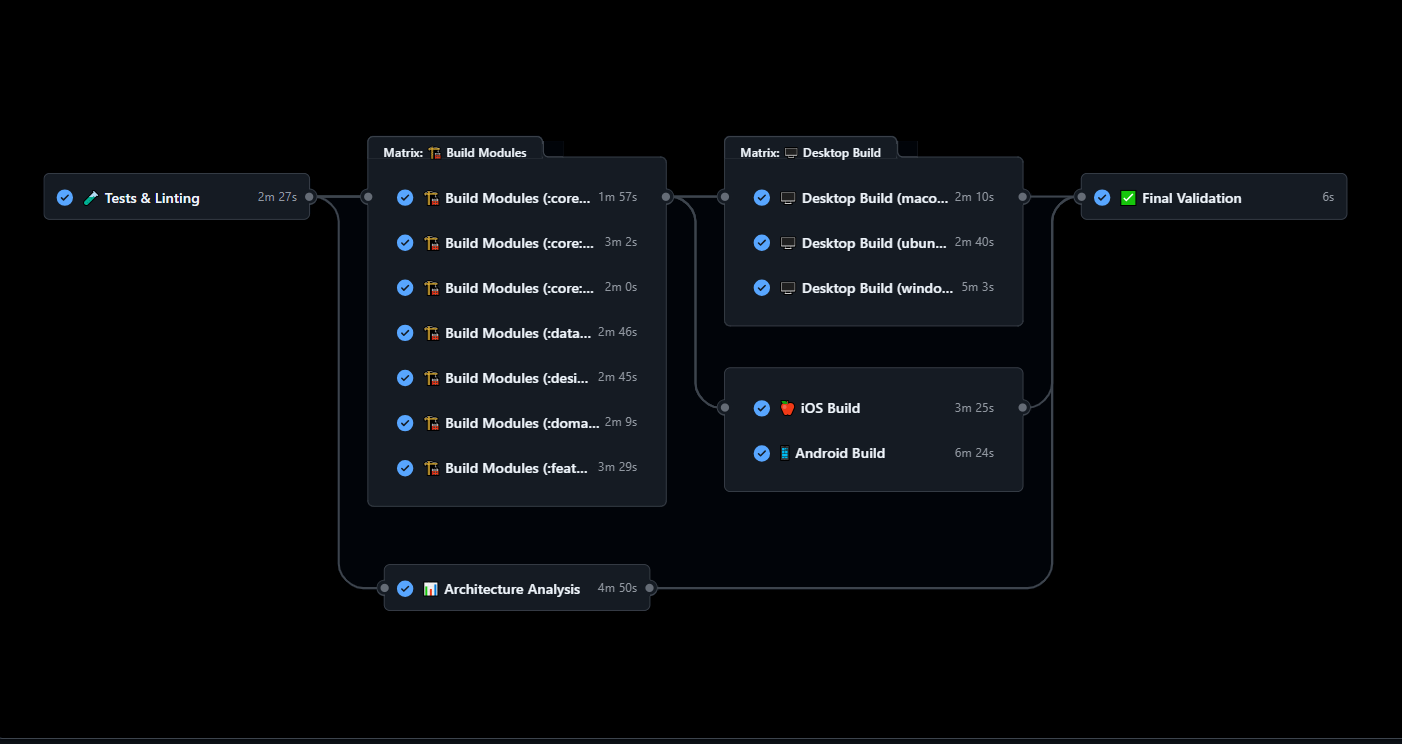
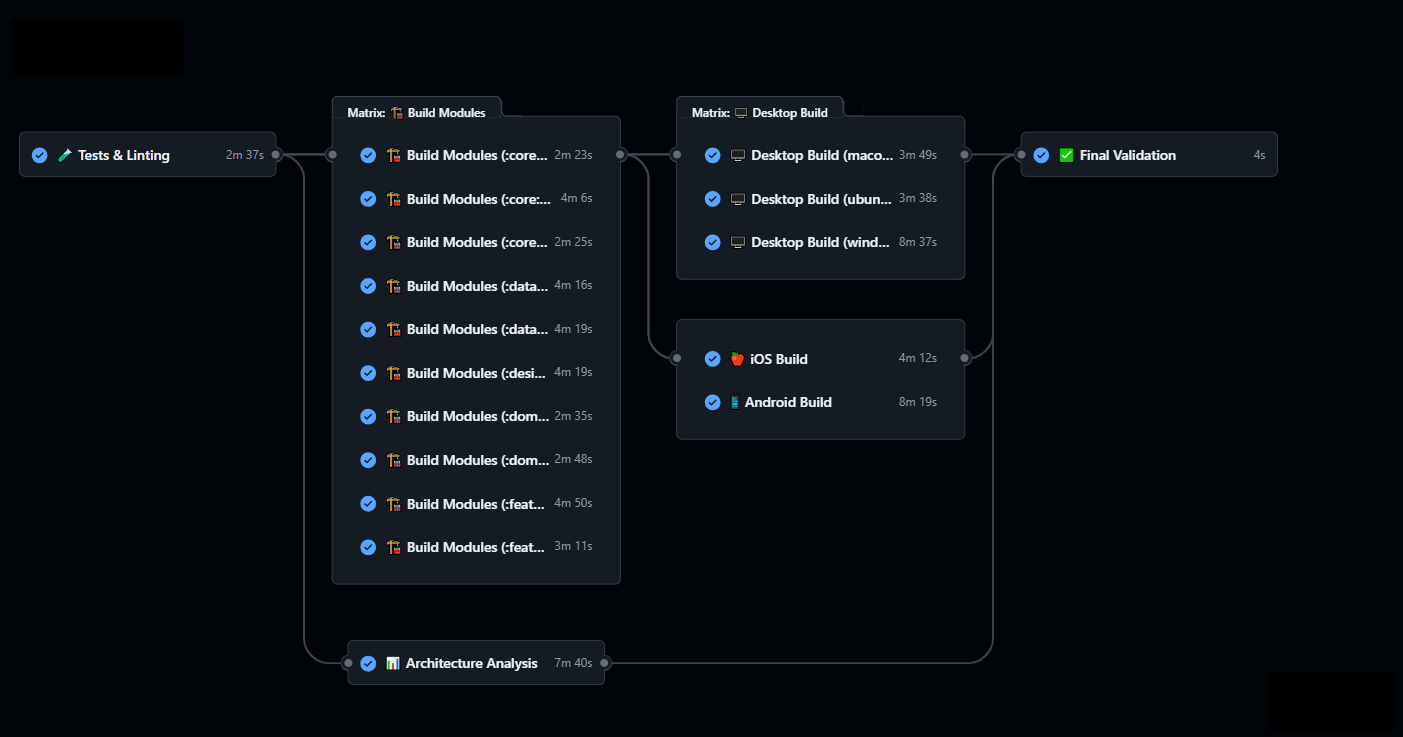
Feature: Добавлена функциональность "Калькулятор развития" и обновлена документация
Этот коммит вводит новую функцию "Калькулятор развития" и обновляет связанную документацию для отражения этих изменений.

Ключевые изменения:

- **README.md**:
    - Добавлена новая функция "Калькулятор развития" в список функциональности.
    - Обновлено описание архитектуры для включения новых доменных (`domain:development`) и функциональных (`feature:development`) модулей.

- **docs/ARCHITECTURE.md**:
    - Обновлена структура проекта, добавлены секции для `domain/development` и `data/development`, описывающие их внутреннюю структуру (repository, service, usecase).
    - Добавлена секция для `feature/development`, описывающая его структуру (screen, component, viewmodel, state).

- **docs/CI_CD.md**:
    - В список модулей, собираемых на этапе "Сборка модулей", добавлены `:domain:development`, `:data:development` и `:feature:development`.

- **screenshots/Pipline_structure.png**:
    - Обновлено изображение структуры пайплайна, предположительно для включения новых модулей или отражения изменений в процессе сборки.

Changed region(s): [[0.0, 0.1248, 0.9815, 0.9362], [0.6748, 0.8738, 0.7054, 0.905]]

diff --git a/README.md b/README.md
@@ -32,19 +32,20 @@
 
 ## ⚡ Функциональность
 
-- 📊 **Калькулятор давления в шинах** - интеллектуальный расчет с учетом всех параметров
-- 📋 **История расчетов** - сохранение и управление результатами
-- 🎨 **Адаптивный дизайн** - Material Design 3 с темной/светлой темой
+- 📊 **Калькулятор давления в шинах** — интеллектуальный расчет с учетом всех параметров
+- 📈 **Калькулятор развития** — расчёт метража и график по передаточным числам
+- 📋 **История расчетов** — сохранение и управление результатами
+- 🎨 **Адаптивный дизайн** — Material Design 3 с темной/светлой темой
 - 🔄 **Мгновенная конвертация** единиц измерения (bar, psi, kPa)
 
 ## 🏗 Архитектура
 
-Проект построен на **8-модульной Clean Architecture** с четким разделением ответственности:
+Проект построен на **многомодульной Clean Architecture** с четким разделением ответственности:
 
 - 🏗 **Core модули** - общая инфраструктура (model, common, database)  
-- 🎯 **Domain модули** - бизнес-логика и интерфейсы
+- 🎯 **Domain модули** - бизнес-логика и интерфейсы (включая `pressure` и `development`)
 - 💾 **Data модули** - реализация доступа к данным
-- 🎨 **Feature модули** - UI и презентационная логика
+- 🎨 **Feature модули** - UI и презентационная логика (`feature:pressure`, `feature:development`)
 - 🎪 **Design System** - переиспользуемые UI компоненты
 
 **[📖 Подробная документация архитектуры →](docs/ARCHITECTURE.md)**

diff --git a/docs/ARCHITECTURE.md b/docs/ARCHITECTURE.md
@@ -15,16 +15,31 @@
 │   ├── common/             # Утилиты и базовые типы
 │   └── database/           # Room, DAO, Entity
 │
-├── 🎯 domain/pressure/     # Бизнес-логика
+├── 🎯 domain/pressure/     # Бизнес-логика (Pressure)
 │   ├── repository/         # Абстракции доступа к данным  
 │   ├── service/            # Бизнес-сервисы
-│   └── usecase/            # Use cases для UI
+│   └── usecase/            # Use cases (интерфейсы + impl)
 │
-├── 💾 data/pressure/       # Реализация данных
+├── 🎯 domain/development/  # Бизнес-логика (Development)
+│   ├── repository/         # Абстракции доступа к данным
+│   ├── service/            # Бизнес-сервисы
+│   └── usecase/            # Use cases (интерфейсы + impl)
+│
+├── 💾 data/pressure/       # Реализация данных (Pressure)
 │   ├── repository/         # Конкретные репозитории
 │   └── service/            # Реализация бизнес-логики
 │
-├── 🎨 feature/pressure/    # UI модуль функции
+├── 💾 data/development/    # Реализация данных (Development)
+│   ├── repository/         # Конкретные репозитории
+│   └── service/            # Реализация бизнес-логики
+│
+├── 🎨 feature/pressure/    # UI модуль функции (Pressure)
+│   ├── screen/             # Экраны
+│   ├── component/          # UI компоненты
+│   ├── viewmodel/          # ViewModels
+│   └── state/              # State management
+│
+├── 🎨 feature/development/ # UI модуль функции (Development)
 │   ├── screen/             # Экраны
 │   ├── component/          # UI компоненты
 │   ├── viewmodel/          # ViewModels

diff --git a/docs/CI_CD.md b/docs/CI_CD.md
@@ -19,8 +19,9 @@
 - **Время выполнения**: ~2-3 минуты (параллельно)
 - **Модули**:
   - `:core:model`, `:core:common`, `:core:database`
-  - `:domain:pressure`, `:data:pressure`
-  - `:designsystem`, `:feature:pressure`
+  - `:domain:pressure`, `:domain:development`
+  - `:data:pressure`, `:data:development`
+  - `:designsystem`, `:feature:pressure`, `:feature:development`
 - **Артефакты**: Отчеты сборки модулей
 
 ### 📱 Android Build
